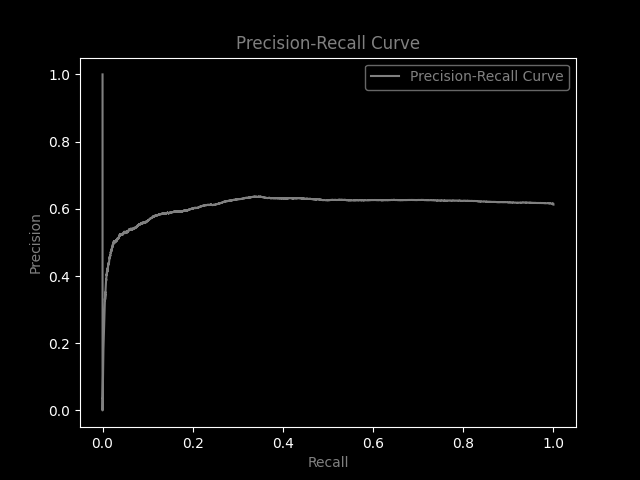
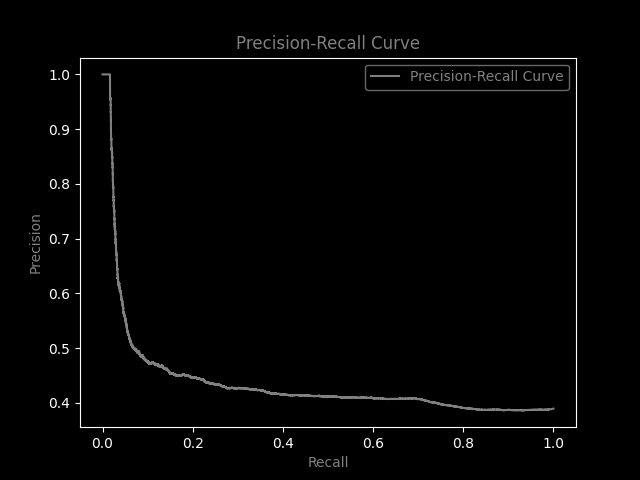
switched ones and zeros in pe only logreg, better graphs

diff --git a/Neural Network/model.py b/Neural Network/model.py
@@ -21,7 +21,7 @@ outliers = clf.predict(pe_buys)
 
 pe_buys = pe_buys[outliers != -1]
 
-ones = np.ones((pe_buys.shape))
+ones = np.zeros((pe_buys.shape))
 
 sells = pd.read_csv(r"C:\Users\arnav\OneDrive\Documents\Merlin\Neural Network\sell_metrics_v1.csv")
 
@@ -33,7 +33,7 @@ outliers = clf.predict(pe_sells)
 
 pe_sells = pe_sells[outliers != -1]
 
-zeros = np.zeros((pe_sells.shape))
+zeros = np.ones((pe_sells.shape))
 
 X = np.concatenate((pe_buys, pe_sells))
 
